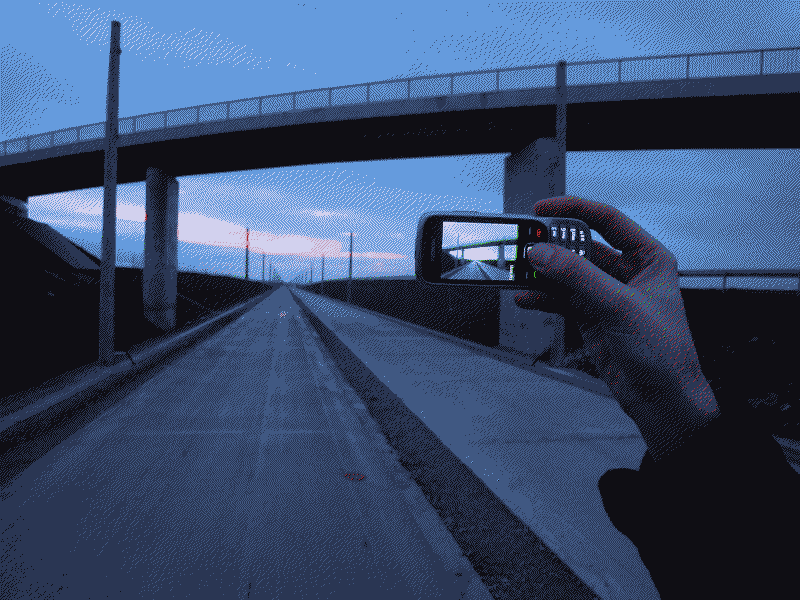
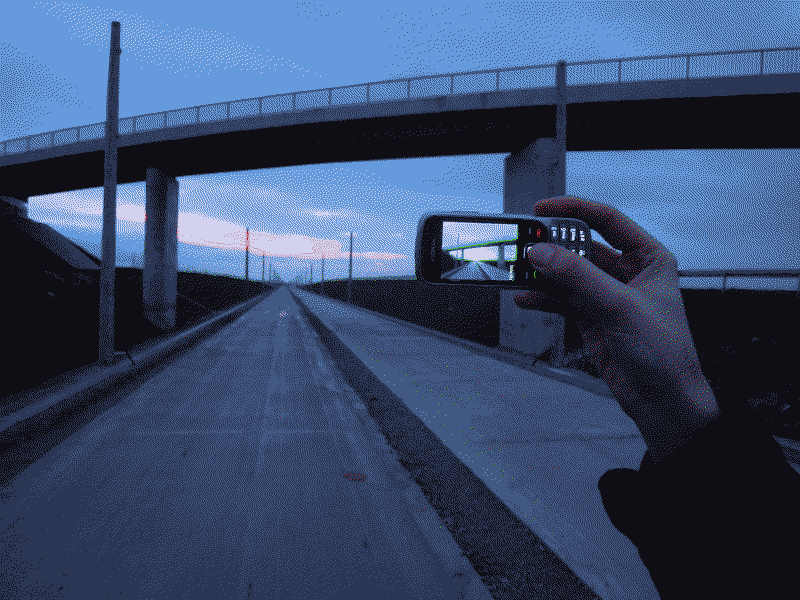
1.0.4 - fix dithering mistakes

diff --git a/quanti.ts b/quanti.ts
@@ -227,6 +227,7 @@ namespace quanti {
       const cc = this.palette[0].length;
       const n = Math.floor(data.length / cc) * cc;
       const widthBytes = width * cc;
+      const rightLine = widthBytes - cc;
 
       const array = new Float32Array(widthBytes * 2);
       let errors1 = array.subarray(0, widthBytes);
@@ -248,8 +249,8 @@ namespace quanti {
           x -= cc;
 
           const mappedSrgb = this.map(targetSgrb);
-          const leftExists = x === 0;
-          const rightExists = x < widthBytes;
+          const leftExists = x !== 0;
+          const rightExists = x !== rightLine;
           for (let c = 0; c < cc; c++, x++, i++) {
             data[i] = mappedSrgb[c];
             let error = targetLinear[c] - srgb_to_linear(mappedSrgb[c]);
@@ -264,7 +265,7 @@ namespace quanti {
             // Floyd–Steinberg dithering
 
             // right
-            error /= 16;
+            error /= 18; // reduce more, errors will be reducing.
             if (rightExists) {
               errors1[x + cc] += error * 7;
             }

diff --git a/sample.ts b/sample.ts
@@ -26,11 +26,17 @@ function average(data: Uint8Array) {
 }
 
 (async () => {
+  console.time("jimp");
   const image = await Jimp.read("./image/sample.png");
+  console.timeEnd("jimp");
   const data = image.bitmap.data;
   const orig = average(data);
+  console.time("quanti");
   const palette = quanti(data, 8, 4);
+  console.timeEnd("quanti");
+  console.time("process");
   palette.ditherProcess(data, image.getWidth());
+  console.timeEnd("process");
   const conv = average(data);
   await image.writeAsync("./image/sample_quantized.png");
 
